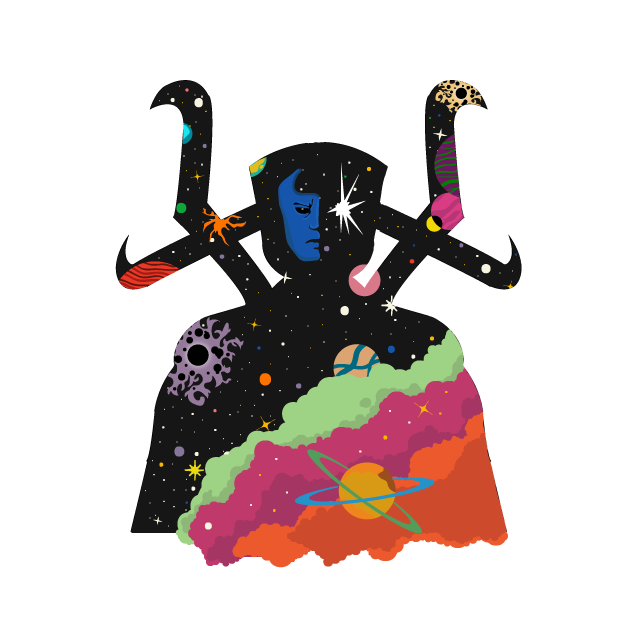
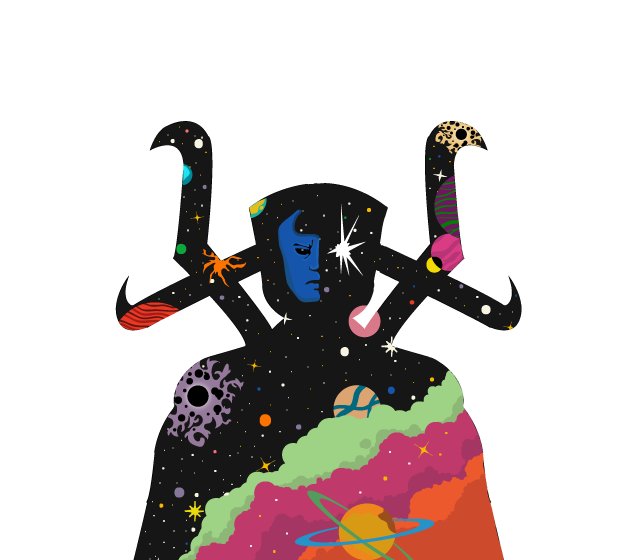
update

diff --git a/css/style.css b/css/style.css
@@ -5,7 +5,21 @@ div#blueprint { background-color: transparent; }
   height: auto;
 }
 
-h2{font-size: 20pt;}
+body{margin: 0;}
+/* ---------------------------------fonts page-------------------------- */
+
+h2{font-size: 20pt;
+   font-family: 'digitalstrip_2.0_bbregular'; 
+   padding-left: 2.5em;}
+
+@font-face {
+    font-family: 'digitalstrip_2.0_bbregular';
+    src: url('digitalstrip2bb_reg-webfont.woff2') format('woff2'),
+         url('digitalstrip2bb_reg-webfont.woff') format('woff');
+    font-weight: normal;
+    font-style: normal;
+
+}
 
 
 /* ---------------------------------home page-------------------------- */
@@ -21,6 +35,7 @@ h2{font-size: 20pt;}
 }
 
 .mascot{ 
+    padding-left: 2em;
     grid-column-start: 1;
     grid-column-end: 1;
     grid-row-start: 1;
@@ -32,45 +47,47 @@ h2{font-size: 20pt;}
     grid-row-start: 1;
     grid-row-end: 1;}
 
-.intro2 {
+.titlecard{padding-left: 2em;
+           width: 90%;
+           }
+
+.speech-text{padding: 0.1em;}
+
+/* ------------bottom of eterrnity artwork------------ */
+
+#eternity {
   display: grid;
   grid-template-columns: 100 100;
-  background-color: #ffffff;
-  color: #444;
-}
+  background-color: #ffffff;}
 
-.mascot2{ 
+#eternity2{
+    grid-column-start: 2;
+    grid-column-end: 2;
+    grid-row-start: 1;
+    grid-row-end: 1;}
+
+#eternity3{
+    padding-left: 5em;
+    width: 78%;
     grid-column-start: 1;
     grid-column-end: 1;
     grid-row-start: 1;
     grid-row-end: 1;}
 
-#titlecard{
-           margin-bottom: 0em;
-           padding-left: 2em;
-           height: 90%;
-           width: 90%;
-           }
-
-.speech-text{padding: 10px;}
-
-
-
 /* ------------speech bubble------------ */
 
-.speech-bubble {
+#speech-bubble {
 	position: relative;
 	background: #ffffff;
-	border-radius: 4em;
-    margin-top: 2em;
-    margin-right: 2em;
+	border-radius: 5em;
+    margin: 2em;
 }
 
-.speech-bubble:after {
+#speech-bubble:after {
 	content: '';
 	position: absolute;
 	left: 0;
-	top: 50%;
+	top: 53%;
 	width: 0;
 	height: 0;
 	border: 54px solid transparent;
@@ -81,6 +98,28 @@ h2{font-size: 20pt;}
 	margin-left: -54px;
 }
 
+/* ------------speech bubble2------------ */
+
+#speech-bubblee {
+	position: relative;
+	background: #252525;
+	border-radius: .4em;
+}
+
+#speech-bubblee:after {
+	content: '';
+	position: absolute;
+	top: 0;
+	left: 23%;
+	width: 0;
+	height: 0;
+	border: 20px solid transparent;
+	border-bottom-color: #252525;
+	border-top: 0;
+	border-right: 0;
+	margin-left: -10px;
+	margin-top: -20px;
+}
 
 /* ------------links to the pages------------ */
 

diff --git a/index.html b/index.html
@@ -4,60 +4,64 @@
 <meta name="viewport" content="width=device-width, initial-scale=1">
     
     <link href="css/style.css" type="text/css" rel="stylesheet"/>
-        
+      
     <title>Comics Condensed</title>
 </head> 
+    
+<body>    
     
 <div class="intro">
     
  <div class="mascot"> 
     
-    <img src="image/cosmic-entities-final.png" class="responsive"\>
+    <img src="image/eternity-final.png" class="responsive"\>
     
  </div>
     
  <div class="speechbubbleintro"> 
     
-      <div class="speech-bubble">
+      <div id="speech-bubble">
           
           <div class="speech-text">
 
     <h2>Welcome to</h2>
               
-<div id="titlecard"> 
+<div class="titlecard"> 
     
 <img src="image/Final-Wordmark-comics-condensed.png" class="responsive" \>
     
     </div>         
               
-    <h2>I am eternity, the living personification</h2>
-    <h2>of reality and the universe itself. I am </h2>
-    <h2>here to teach you more about your</h2> 
-    <h2>favourite superheroes from marvel</h2> 
-    <h2>comics.</h2>      
+    <h2>I am eternity. I am the living personification</h2>
+    <h2>of the entire mulitverse. My Goal is to teach </h2>
+    <h2>you all about your favourite superheros and</h2> 
+    <h2>villians from the past, present and the future</h2> 
+    <h2>of marvel comics.</h2>      
     
           </div>
     </div>      
     
-</div>
-    
-<div class="intro2">
-    
-<div class="mascot2"> <img src="image/eternity copy.png" class="responsive"\> </div>
-    
-</div>    
-       
-    
+</div>       
 </div> 
- 
 
     
     
+<div id="eternity">
+    
+<div id="eternity3"> 
+    <img src="image/eternity copy.png" class="responsive"\> 
+    </div>    
+    
+<div id="eternity2"> 
+    <img src="image/blank.png" class="responsive"\> 
+    </div>
+    
+</div> 
+
     
     
+<div id="speech-bubblee">  
     
-<div class="discription">  
-     <h1>What our site does</h1>
     <p>Lorem ipsum dolor sit amet, consectetur adipiscing elit, sed do eiusmod 
        tempor incididunt ut labore et dolore magna aliqua. Ut enim ad minim veniam, 
        quis nostrud exercitation ullamco laboris nisi ut aliquip ex ea commodo 
@@ -71,7 +75,10 @@
        fugiat nulla pariatur. Excepteur sint occaecat cupidatat non proident, sunt in 
        culpa qui officia deserunt mollit anim id est laborum.</p>
 
-</div>
+    
+</div>    
+    
+    
     
     
 <div class="linkstopages">
@@ -86,7 +93,7 @@
 </div>
     
     
-    
+</body>    
     
     
     
